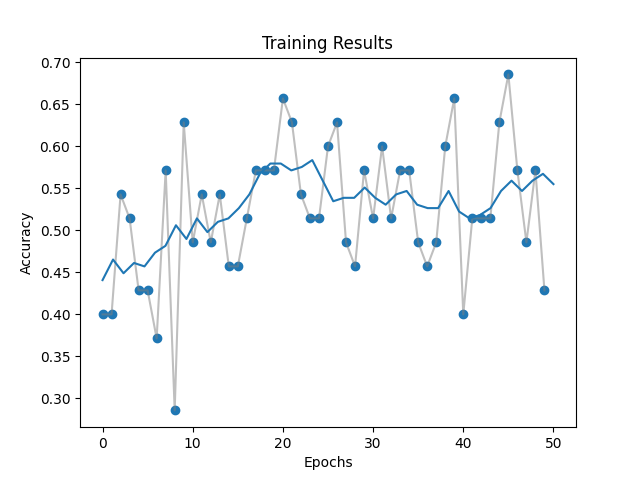
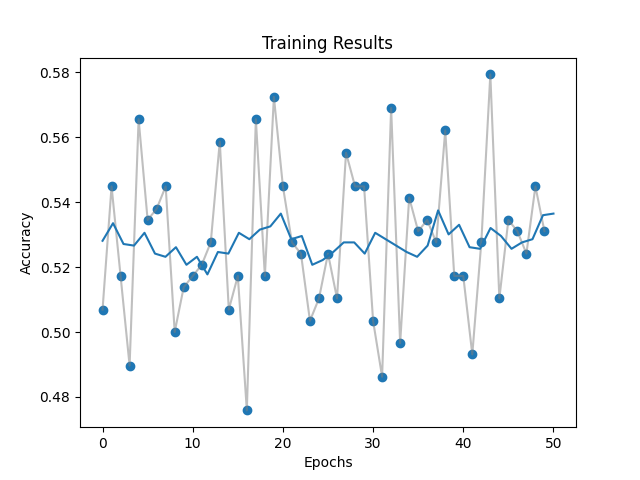
Added some new games

diff --git a/d2draftnet/config.py b/d2draftnet/config.py
@@ -4,7 +4,8 @@ import pandas as pd
 # Define the current patch
 #current_patch_for_model = "7_37e"
 current_patch_for_model = "test"
-current_patch_for_parquet = "7_38c"
+current_patch_for_model = "7_39b" 
+current_patch_for_parquet = "7_39b"
 
 #KEY = "21bcc3a2-28fc-4331-a1ad-5e68401b8f71"
 KEY = None

diff --git a/d2draftnet/collect_match_data.py b/d2draftnet/collect_match_data.py
@@ -101,4 +101,4 @@ def main(N_matches: int):
     print(f"Total matches: {len(existing_ids)}")
 
 if __name__ == "__main__":
-    main(3)
+    main(1000)
